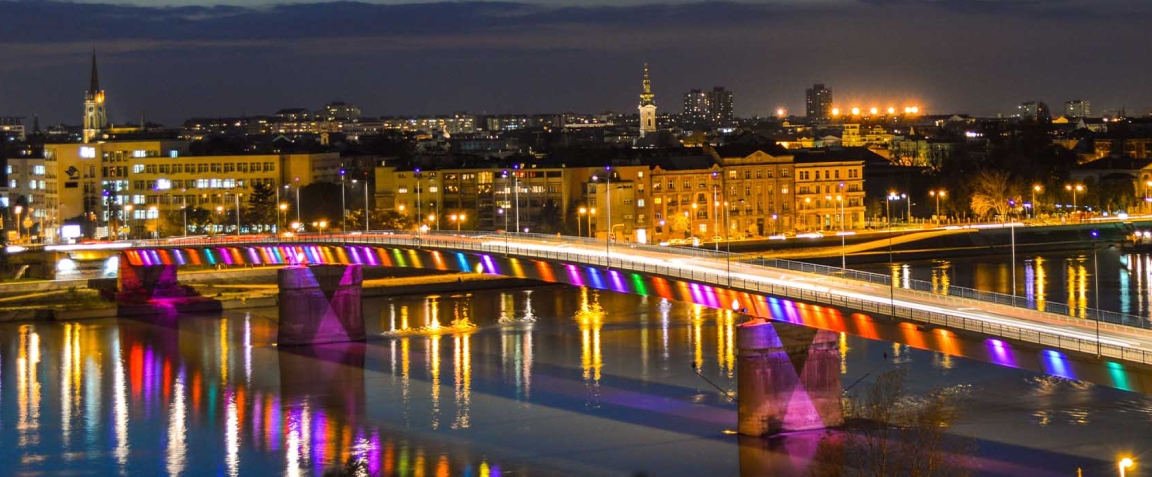
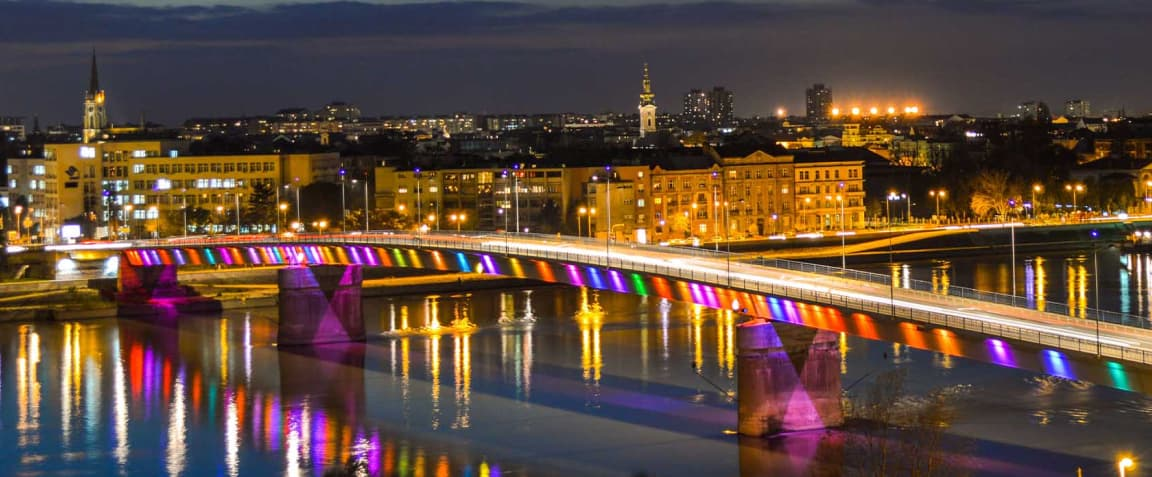
slike

diff --git a/src/pages/SavetovalisteBeograd.vue b/src/pages/SavetovalisteBeograd.vue
@@ -52,7 +52,7 @@
 					</div>
 
 					<div class="pt-20 relative flex justify-center">
-						<g-image class="rounded-2xl" src="~/assets/img/savetovaliste-beograd.jpg"></g-image>
+						<g-image class="rounded-2xl" src="~/assets/img/savetovaliste-beograd.webp"></g-image>
 						<g-image class="hidden xl:block absolute -right-16 transform bottom-0" src="~/assets/img/savetovaliste-novi-sad-svg.svg"></g-image>
 					</div>
 				</div>
